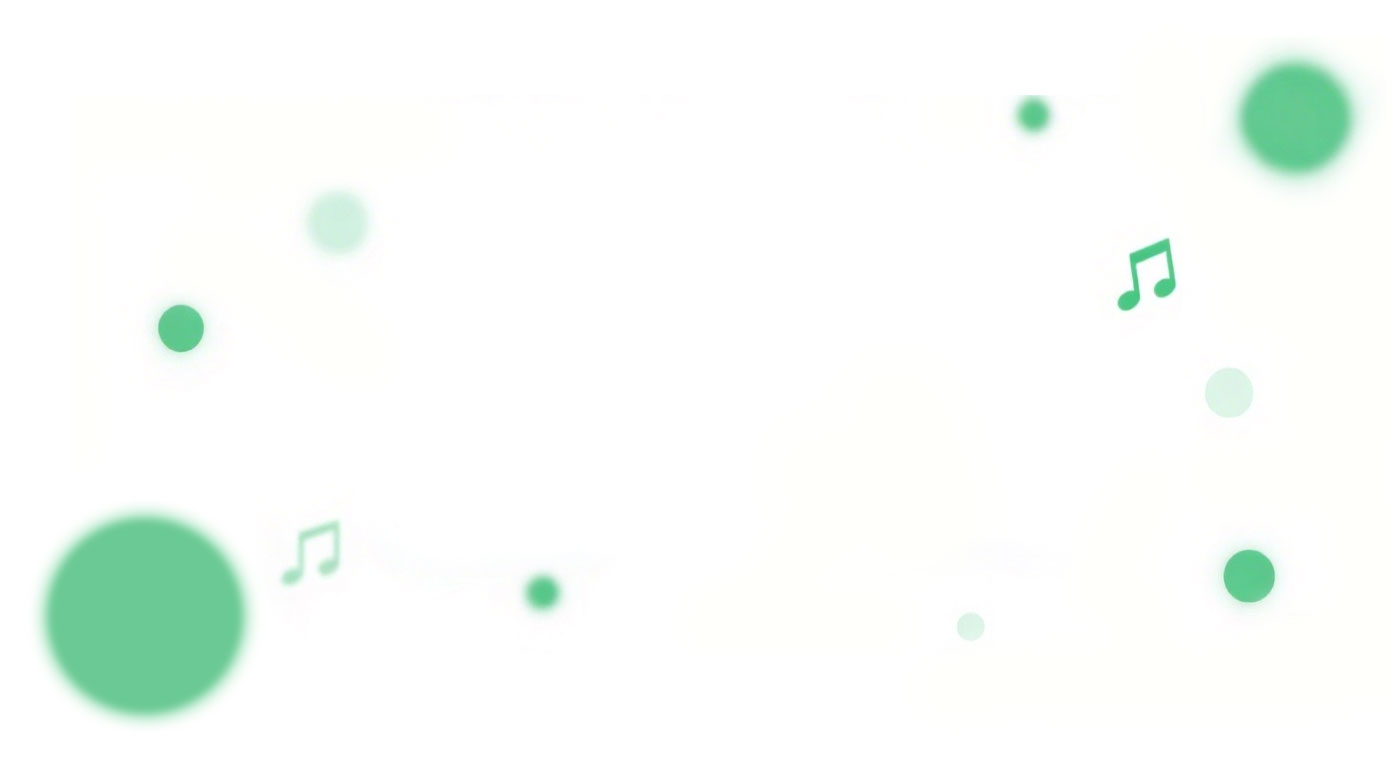
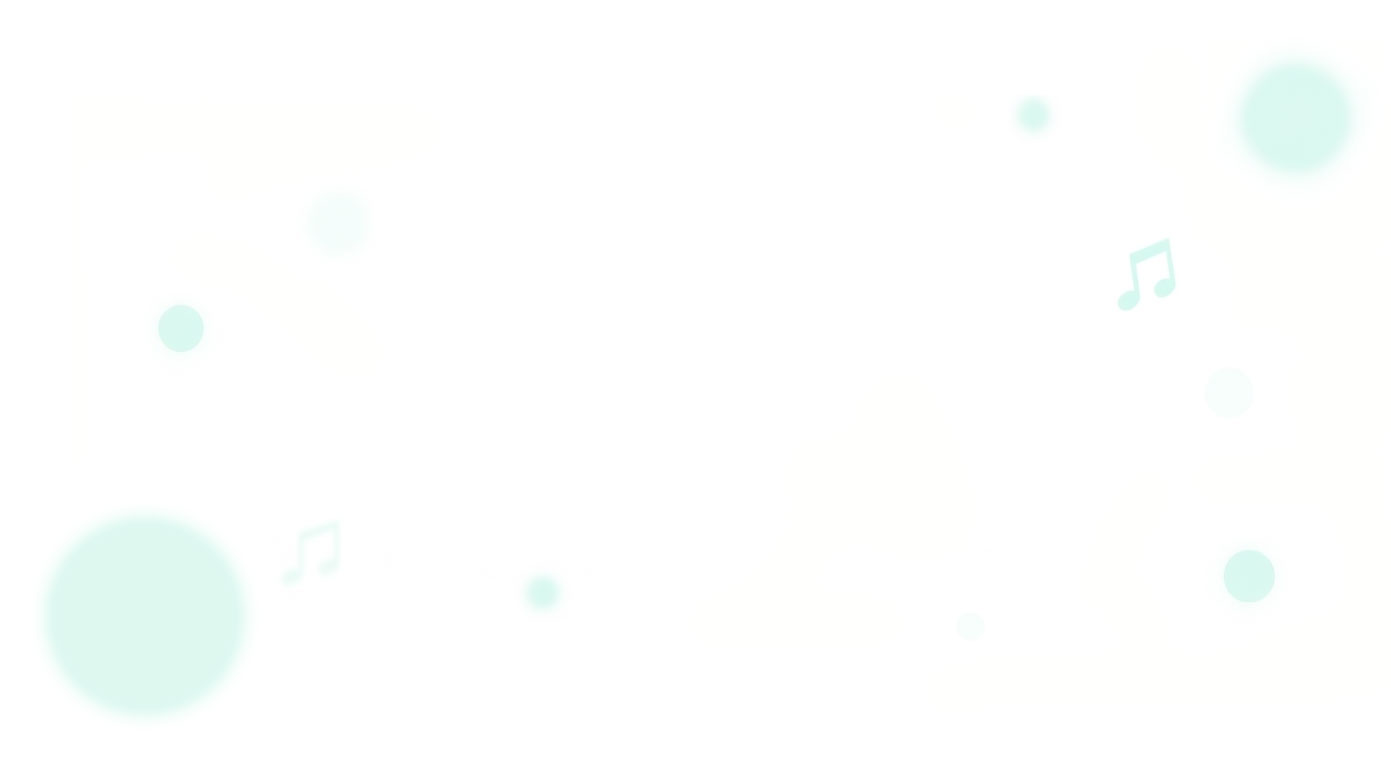
feat: develop Lyrixi-design-mobile

diff --git a/.dumi/pages/index/components/Homepage.js b/.dumi/pages/index/components/Homepage.js
@@ -1,6 +1,5 @@
 import { useLocale } from 'dumi'
 import './Homepage.less'
-import phone from './assets/phone.png'
 
 export default () => {
   const locale = useLocale()
@@ -18,40 +17,25 @@ export default () => {
           Lyrixi Design Mobile
         </h1>
         <p className="description">
-          {trans(
-            'A Mobile First HTMl5 and CSS3 UI Framework',
-            '为产品设计提供通用指导原则，助力产研团队高效协作，为用户提供友好的产品体验'
-          )}
+          {trans('The best React component library for mobile', '最好用的移动端React组件库')}
         </p>
-        <p className="buttons">
-          <a href={trans('/en-US/', '/design/introduce')}>{trans('Get Started', '开始使用')}</a>
-          <a href={trans('/en-US/design/introduce', '/components')}>
-            {trans('Components', '组件列表')}
-          </a>
-        </p>
+        <a className="button-start" href={trans('/en-US/', '/design/introduce')}>
+          {trans('Get Started', '开始使用')}
+        </a>
       </div>
       {/* 卡片 */}
       <div className="snippets">
         <div className="snippet">
-          <div className="title">设计价值观</div>
-          <div className="description">
-            我们的目标是通过通用的设计系统去解决产品中的体验问题,
-            并为产品设计提供指导原则解决业务问题，同时它能够促进设计部门和研发部门之间协作,
-            成为开发者之间沟通的语言。
-          </div>
+          <div className="title">设计原则</div>
+          <div className="description">全局样式, API思想</div>
         </div>
         <div className="snippet">
           <div className="title">组件</div>
-          <div className="description">
-            软件开发中的独立、可重用的模块或部件，具有特定的功能和接口。它们可以被组合和组装成更大的系统，提供系统所需的特定功能，从而提高开发效率、代码可维护性和重用性。
-          </div>
+          <div className="description">评星, 地区选择, 地图等组件</div>
         </div>
         <div className="snippet">
-          <div className="title">应用</div>
-          <div className="description">
-            APAAS 的使用场景包括各种应用程序的开发和部署，包括 Web
-            应用、移动应用、企业应用、物联网应用等。它适用于不同规模和类型的组织，包括初创公司、中小型企业和大型企业，以及独立开发人员和团队。
-          </div>
+          <div className="title">模板</div>
+          <div className="description">列表, 编辑, 详情</div>
         </div>
       </div>
     </div>

diff --git a/.dumi/pages/index/components/Homepage.less b/.dumi/pages/index/components/Homepage.less
@@ -5,8 +5,10 @@
 
 // 首页主体内容
 .homepage {
-  padding: 1px 0 40px 0;
-  overflow: hidden;
+  width: 100%;
+  bottom: 65px;
+  top: 76px;
+  position: absolute;
   background-image: url('./assets/bg.jpg');
   background-repeat: no-repeat;
   background-size: cover;
@@ -21,12 +23,7 @@
     margin: 50px auto 0 auto;
     padding: 0 64px;
     box-sizing: content-box;
-    display: flex;
-    align-items: center;
-
-    justify-content: space-between;
-    flex-wrap: wrap;
-    align-items: center;
+    text-align: center;
 
     .buttons {
       margin-top: 20px;
@@ -43,36 +40,27 @@
       color: #1f1f1f;
       margin: 20px auto 56px auto;
     }
-    .buttons {
+    .button-start {
       margin: 28px auto 0 auto;
-
-      a {
-        display: inline-flex;
-        align-items: center;
-        justify-content: center;
-        font-size: 16px;
-        height: 44px;
-        width: 138px;
-        border-radius: 22px;
-        color: #000;
-        margin-right: 24px;
-      }
-      a:first-child {
-        background-color: #30e3b2;
-        border: 1px solid #30e3b2;
-        color: white;
-      }
-      a:last-child {
-        border: 1px solid #f5f6fb;
-        color: #2d2d2d;
-      }
+      display: flex;
+      align-items: center;
+      justify-content: center;
+      font-size: 16px;
+      height: 44px;
+      width: 138px;
+      border-radius: 22px;
+      color: #000;
+      background-color: #30e3b2;
+      border: 1px solid #30e3b2;
+      color: white;
+      box-shadow: 0 6px 12px 0 rgba(95, 251, 208, 0.7);
     }
   }
 
   // 下面的卡片
   .snippets {
-    max-width: 1200px;
-    margin: 0 auto 0 auto;
+    max-width: 800px;
+    margin: 56px auto 0 auto;
     padding: 0 64px;
     gap: 30px;
     box-sizing: content-box;
@@ -81,24 +69,33 @@
     align-items: center;
   }
   .snippet {
-    background-color: white;
     display: flex;
     flex-direction: column;
     align-items: center;
     justify-content: center;
-    height: 223px;
-    border-radius: 16px;
-    border: 1px solid #daebff;
-    padding: 0 24px;
+    text-align: center;
+    width: 200px;
+    height: 200px;
+    border-radius: 200px;
     .title {
       width: 100%;
-      font-size: 18px;
+      font-size: 24px;
+      color: white;
     }
     .description {
-      color: #5c646c;
+      color: rgba(255, 255, 255, 0.7);
       margin-top: 20px;
       font-size: 14px;
     }
+  }
+  .snippet:nth-child(1) {
+    background-color: rgba(48, 227, 178, 0.7);
+  }
+  .snippet:nth-child(2) {
+    background-color: rgba(250, 124, 231, 0.7);
+  }
+  .snippet:nth-child(3) {
+    background-color: rgba(250, 215, 49, 0.7);
   }
 }
 

diff --git a/.dumirc.ts b/.dumirc.ts
@@ -34,6 +34,9 @@ export default defineConfig({
   ],
   styles: [
     `
+    .dumi-default-header-left {
+      width: initial;
+    }
     .dumi-default-header-right {
       margin-left: 30px;
     }
@@ -94,7 +97,7 @@ export default defineConfig({
     },
     // 底部
     footer:
-      '<div class="homepage-copyright">Copyright © 2023 | Powered <span style="color: #ff8800;">❤</span> by <a href="https://github.com/colaboy/lyrixi-design-mobile" target="_blank" rel="noreferrer">Lyrixi</a></div>',
+      '<div class="homepage-copyright">Copyright © Infinity | By <span style="color: red">❤</span> <a href="https://github.com/lyrixi/lyrixi-design-mobile" target="_blank" rel="noreferrer">Lyrixi</a></div>',
     // 配置 demo 预览器的设备宽度，默认为 375px
     deviceWidth: 375,
     // 配置为空数组时可禁用 umi-hd 高清方案, 否则预览时会缩小
